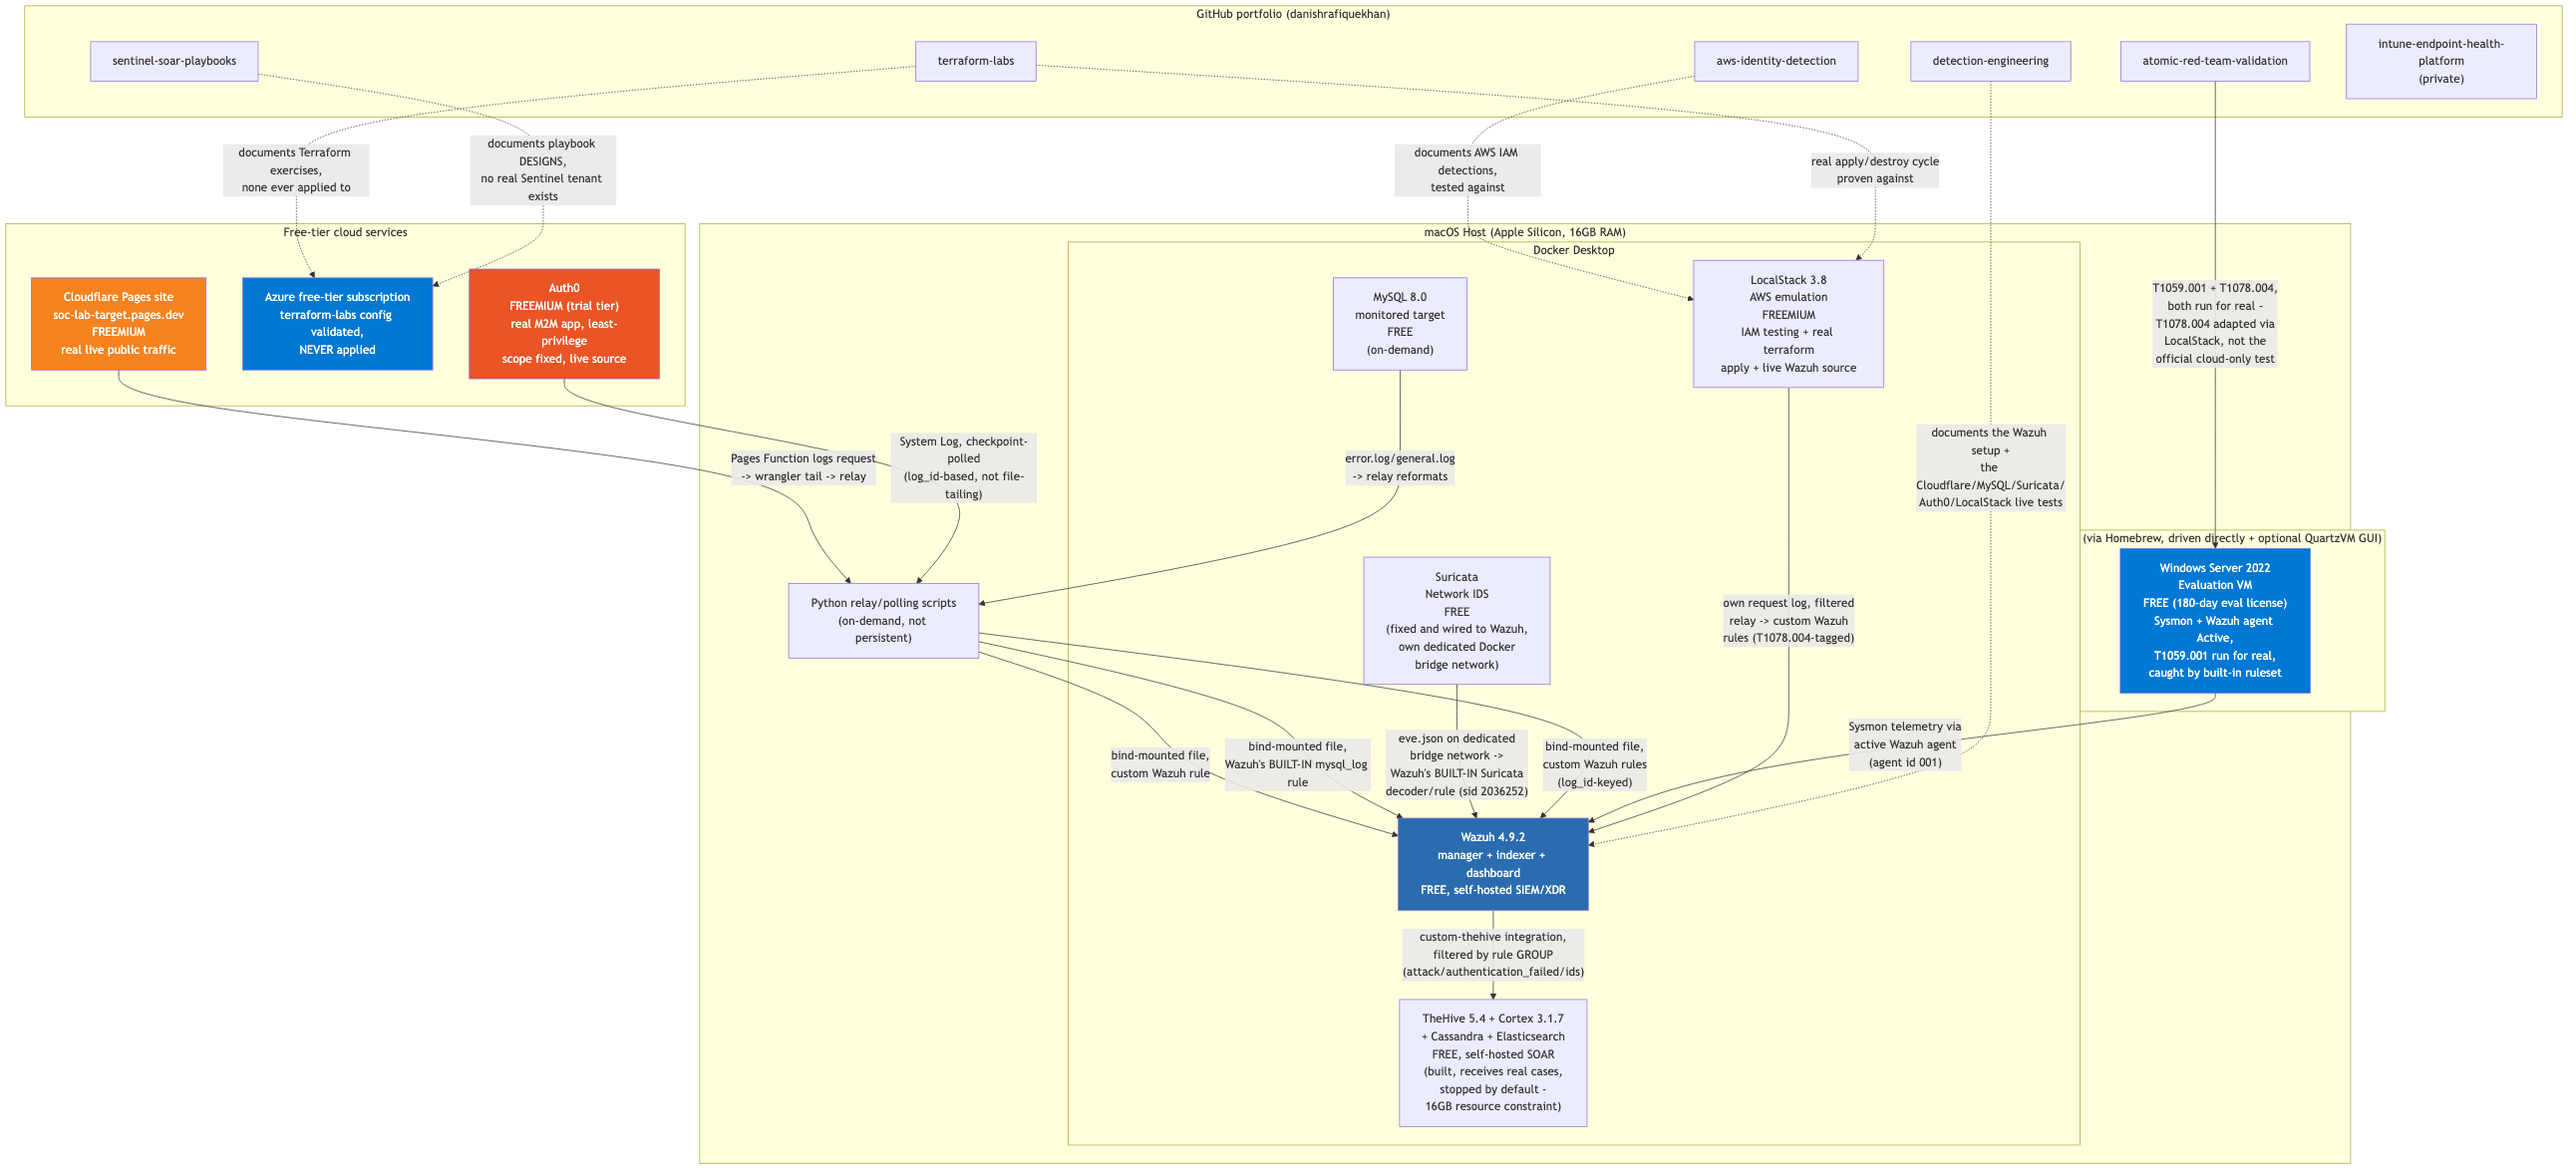
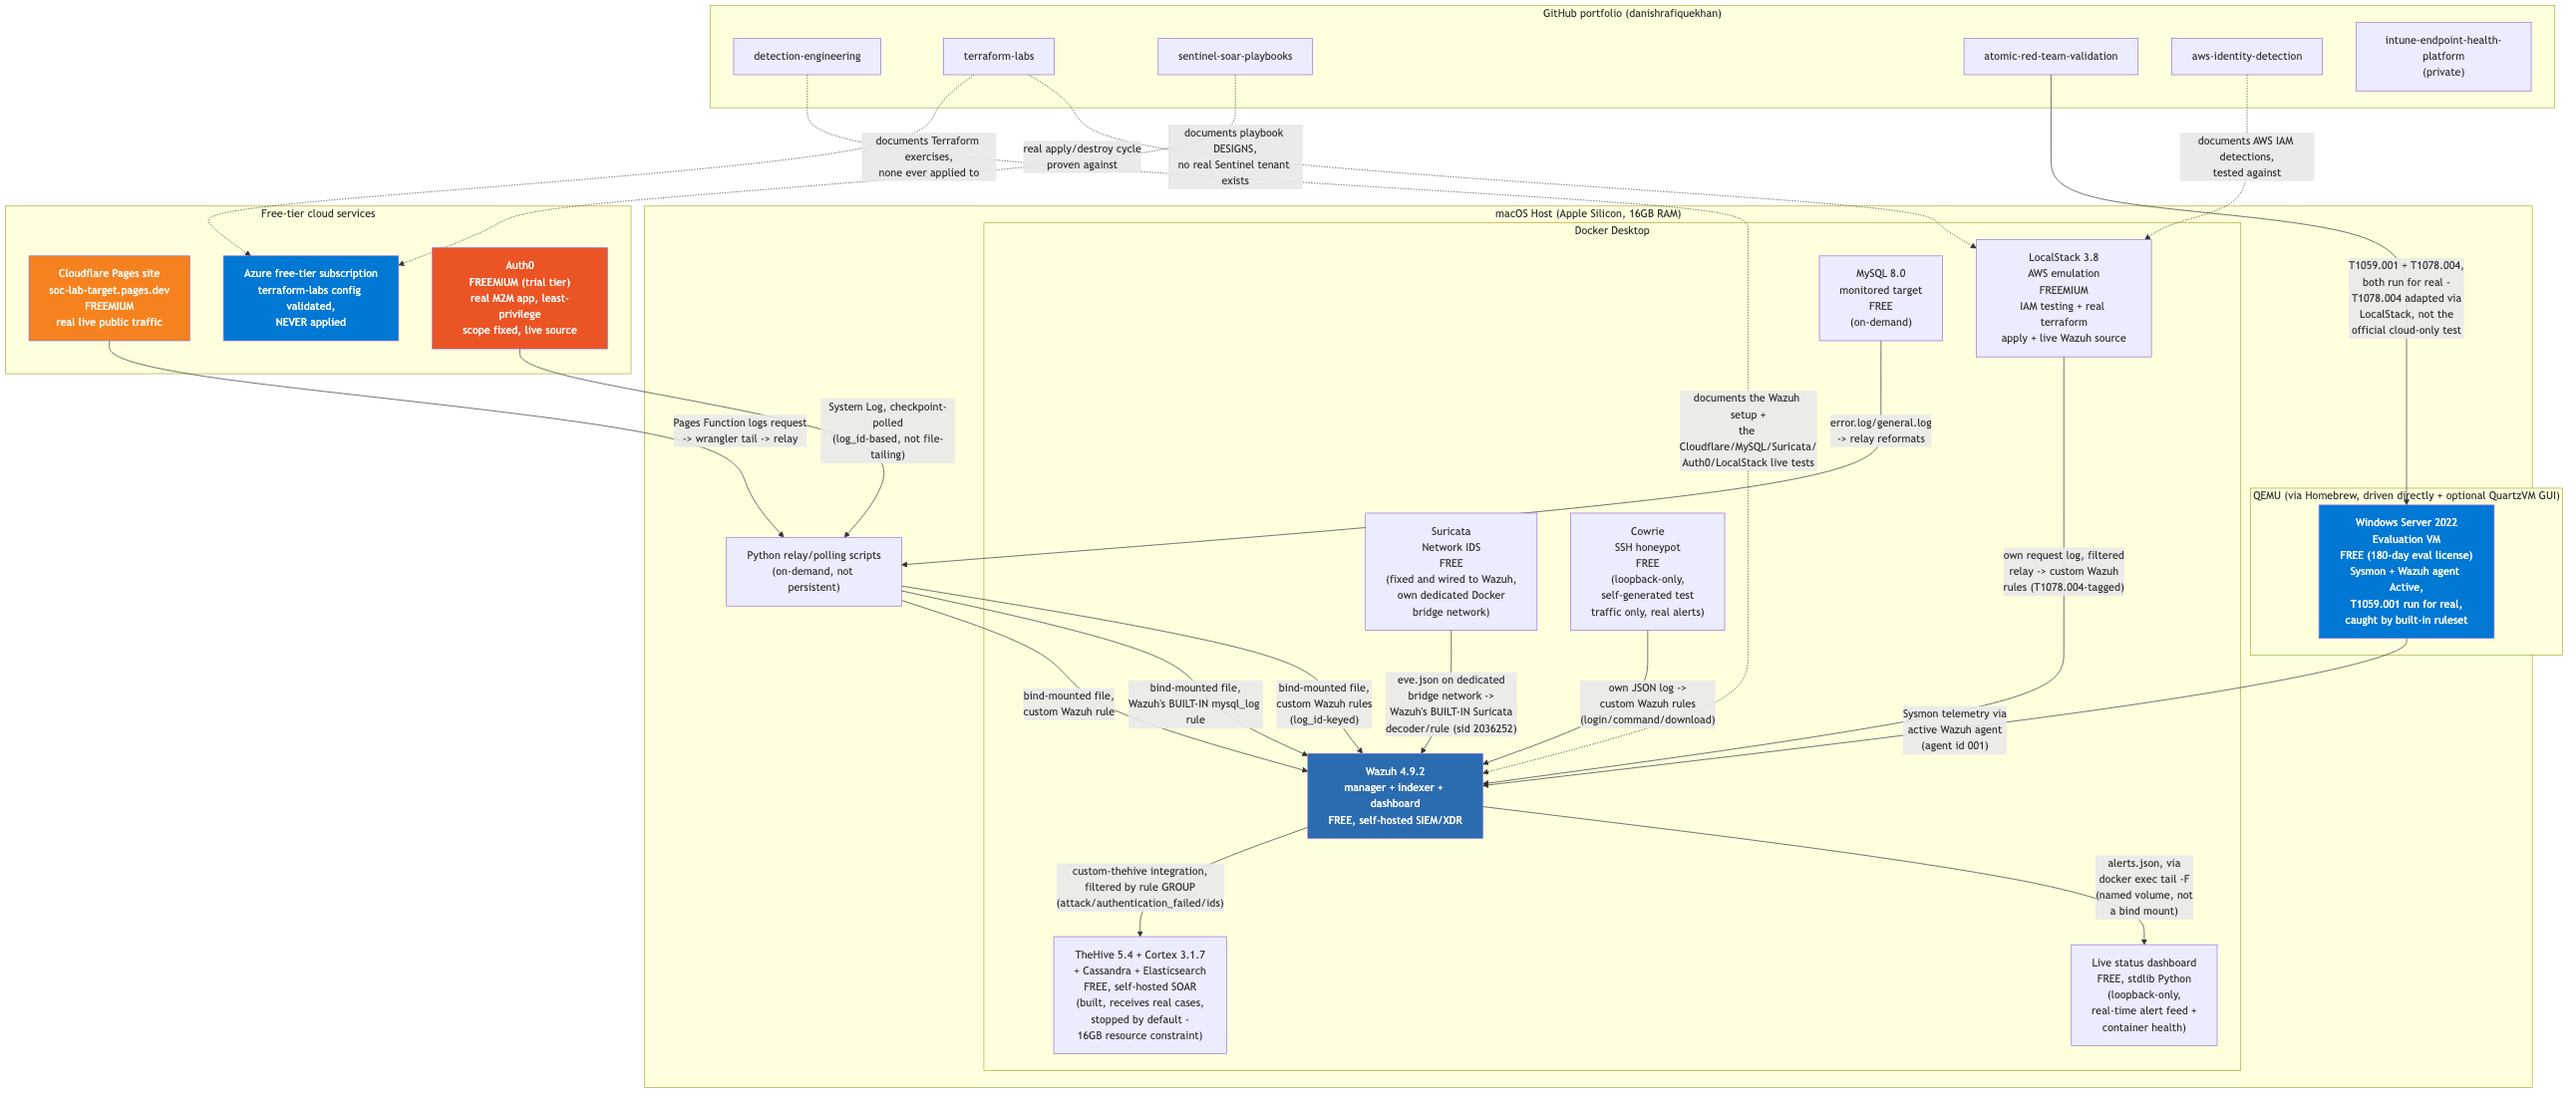
Document the Cowrie honeypot (6th source) and live status dashboard
Part 1 and the master architecture diagram now show the real Cowrie
SSH honeypot wired into Wazuh as a sixth live source, and the new
loopback-only dashboard that streams Wazuh's own alerts.json in real
time. Both were built and verified this session.

diff --git a/parts/01-architecture-overview.md b/parts/01-architecture-overview.md
@@ -21,6 +21,8 @@ Solid arrows are real, verified, currently-working data flows. Dashed arrows are
 - Suricata → Wazuh, over a dedicated Docker bridge network → Wazuh's built-in Suricata decoder/rule (real ET ruleset alert, "ET SCAN RDP Connection Attempt from Nmap" sid 2036252, fired via rule id 86601 — no custom rule needed, same situation as MySQL)
 - Auth0 System Log → checkpoint-polling script → Wazuh custom rules (a fourth live source, with a real least-privilege lesson along the way — see the first architectural decision below)
 - LocalStack's own request log → filtered relay → Wazuh custom rules (a fifth live source — real IAM `CreateUser`/`AttachUserPolicy`/`CreateAccessKey` calls, tagged MITRE T1078.004, built specifically because the official Atomic Red Team tests for that technique all need real Azure/GCP cloud resource creation with no benign local variant)
+- A real Cowrie SSH honeypot → its own JSON log → Wazuh custom rules (a sixth live source, and a different kind from the other five — it doesn't relay real legitimate traffic that happens to see attack noise, it exists purely to be attacked. Currently bound to `127.0.0.1` only, so every real alert it's produced so far is self-generated test traffic, not genuine unsolicited internet attacks — exposing it to the real internet is a separate, not-yet-made decision)
+- A loopback-only live status dashboard (`local-lab/dashboard/`) — a small stdlib-only Python page showing which of the six sources above have alerted recently and a real-time feed as new alerts land, reading Wazuh's own `alerts.json` via `docker exec tail -F` since that file lives in a named Docker volume, not a host bind mount
 - Wazuh → custom `custom-thehive` integration → TheHive cases (verified across three live sources: Cloudflare, MySQL, Suricata, with real case numbers; routine platform noise correctly did not create cases)
 - The Windows Server VM — Sysmon installed (SwiftOnSecurity config) and the Wazuh agent installed, enrolled, and confirmed **Active** on the manager. Both of `atomic-red-team-validation`'s case studies have now been run for real: T1059.001 (encoded PowerShell), caught clean by Wazuh's **built-in** Sysmon ruleset with correct dual MITRE mapping (T1047 WMI + T1059.001 PowerShell); and T1078.004 (Cloud Accounts), adapted via the LocalStack source above since the official test needs real cloud login. A real gap found along the way: Wazuh's Windows agent doesn't monitor the Sysmon event channel by default, so that had to be added explicitly before any Sysmon telemetry could ever arrive.
 - `terraform apply`/`destroy`, for real — but against LocalStack (free, local AWS emulation), not the real Azure subscription every other exercise here targets. LocalStack only emulates AWS, so this is a deliberately separate exercise using the `aws` provider, not a retroactive application of the existing `azurerm`-based ones. A real bug got hit and fixed along the way (S3 path-style addressing) — see Part 10.
